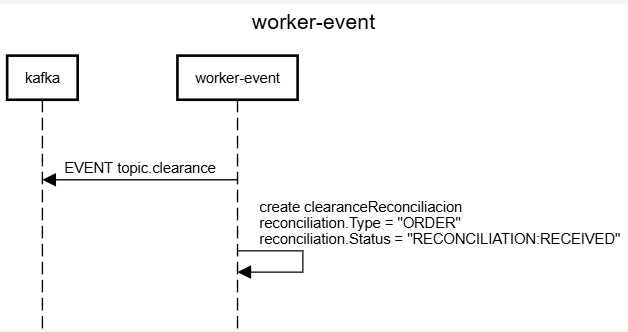
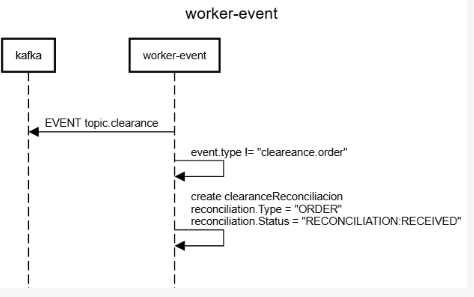
fix:otel carrier kafka

Changed region(s): [[0.0, 0.1212, 1.0, 0.9697], [0.384, 0.0303, 0.6203, 0.0909]]

diff --git a/internal/infrastructure/server/server.go b/internal/infrastructure/server/server.go
@@ -107,8 +107,15 @@ func (e *EventAppServer) Consumer(ctx context.Context,
 		kafkaHeaderCarrier := KafkaHeaderCarrier{}
 		kafkaHeaders := kafkaHeaderCarrier.MapToKafkaHeaders(*msg.Header)
 		appCarrier := KafkaHeaderCarrier{Headers: &kafkaHeaders }
-		ctx := otel.GetTextMapPropagator().Extract(ctx, appCarrier)
 
+		// Extract all headers from appCarrier and add to context
+		allKeys := appCarrier.Keys()
+		for _, key := range allKeys {
+			value := appCarrier.Get(key)
+			ctx = context.WithValue(ctx, key, value)
+		}
+
+		ctx := otel.GetTextMapPropagator().Extract(ctx, appCarrier)
 		ctx, span := tracerProvider.SpanCtx(ctx, 
 								  			e.appServer.Application.Name)
 
@@ -146,7 +153,7 @@ func (e *EventAppServer) Consumer(ctx context.Context,
 			}
 
 			reconciliation := model.Reconciliation{ Transaction: payment.Transaction,
-													Type: "WAITING:ORDER",
+													Type: "RECONCILIATION:RECEIVED",
 													Payment: &payment,
 													Order: payment.Order }	
 

diff --git a/internal/domain/service/service.go b/internal/domain/service/service.go
@@ -119,7 +119,6 @@ func (s *WorkerService) ClearanceReconciliacion(ctx context.Context, reconciliat
 	now := time.Now()
 	reconciliation.CreatedAt = now
 	reconciliation.Type = "ORDER"
-	reconciliation.Status = "RECONCILIATION:RECEIVED"
 	reconciliation.Currency	= "BRL"
 	reconciliation.Amount = reconciliation.Payment.Amount - reconciliation.Order.Amount		   
 	

diff --git a/README.md b/README.md
@@ -16,10 +16,9 @@
     participant worker-event
     
     entryspacing 0.7
-        postData
-        queryData
     space
     kafka<-worker-event:EVENT topic.clearance
+    worker-event->worker-event:event.type != "cleareance.order"
     worker-event->worker-event:create clearanceReconciliacion\nreconciliation.Type = "ORDER"\nreconciliation.Status = "RECONCILIATION:RECEIVED"
 
 ## Endpoints
